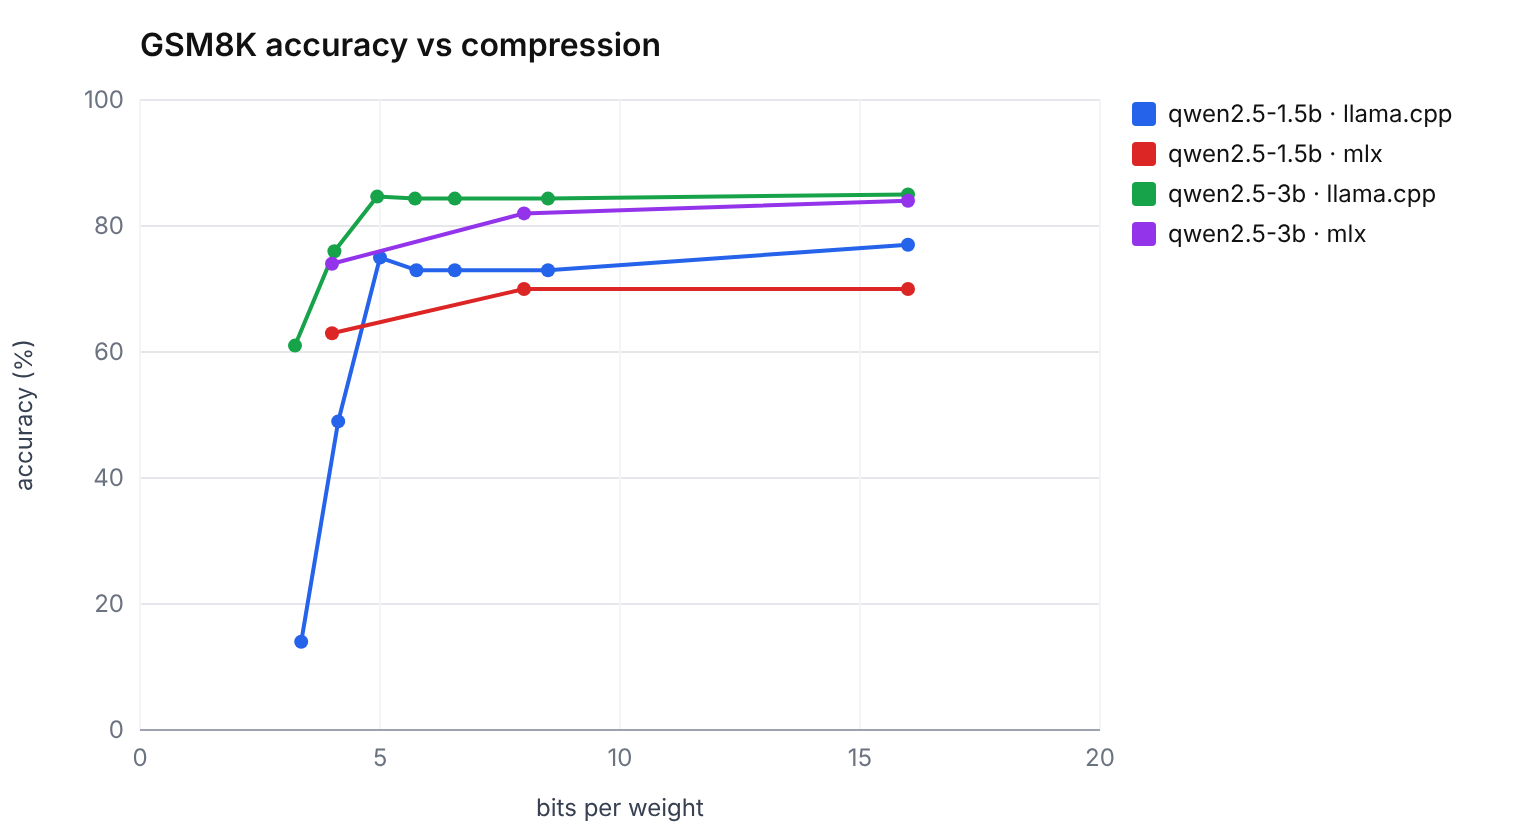
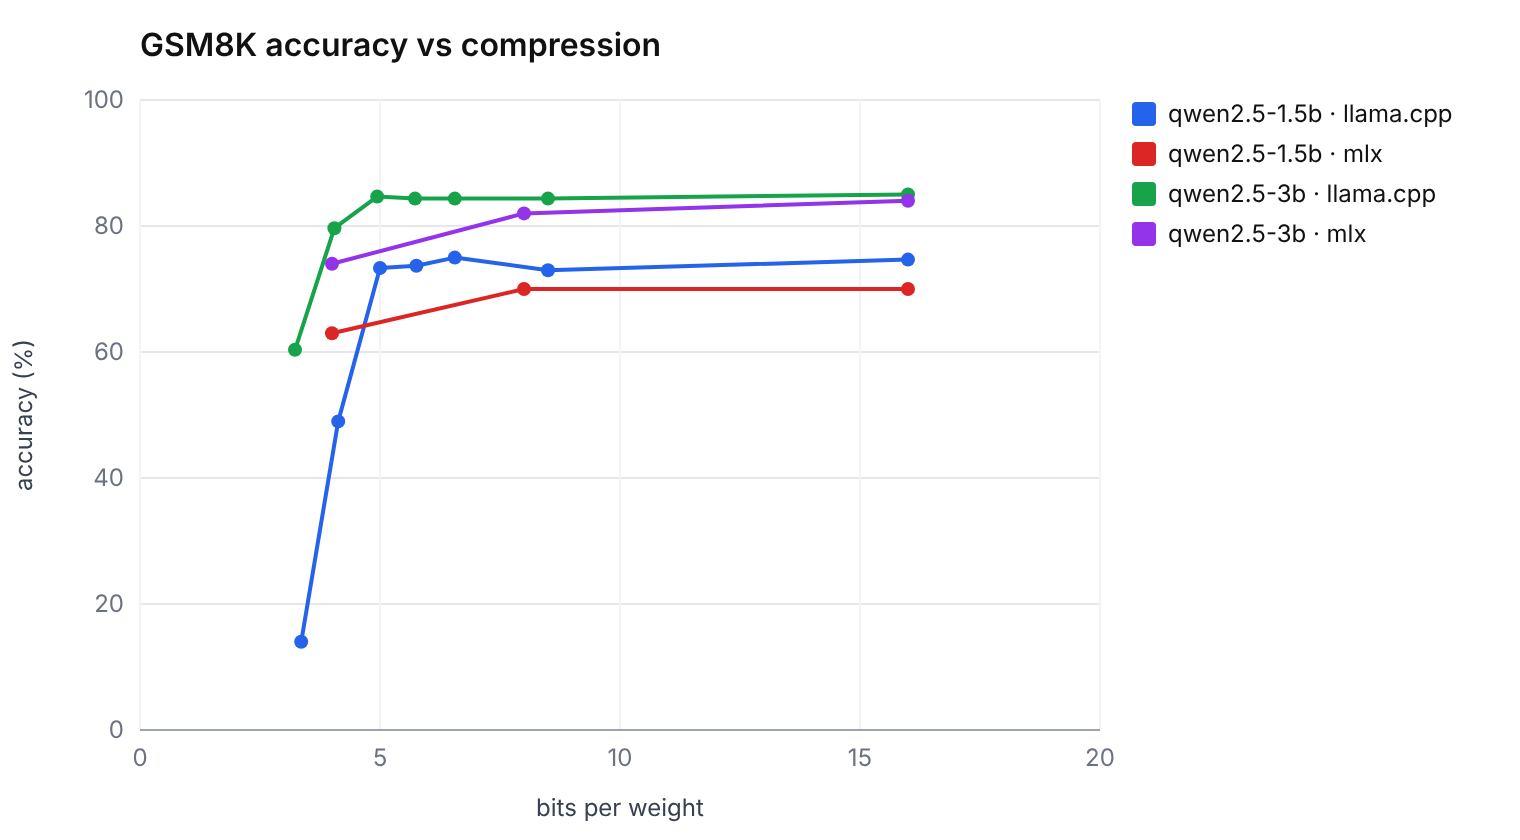
GSM8K on 300 problems for all llama.cpp 3B and most 1.5B variants

diff --git a/README.md b/README.md
@@ -21,8 +21,8 @@ The tool (`jpt`) has no runtime dependency beyond the Python standard library an
 | Same top token as F16 | 100% | 91.3% | −8.7 pts |
 | Perplexity (WikiText-2) | 8.07 | 8.32 | +3% |
 
-1. **Down to ~4 bits, no measurable accuracy loss.** On 300 GSM8K problems, the 3B model scores 85.0% in F16 and 84.3–84.7% in Q8_0, Q6_K, Q5_K_M and Q4_K_M. The degradation is real but small: Q4_K_M still picks the same next token as F16 91% of the time (mean KL divergence 0.03). Below 4 bits it accelerates, and hits the smaller model harder: at Q3_K_M the 1.5B falls to 49% on GSM8K while the 3B holds 76%.
-2. **A larger compressed model beats a smaller full-precision one.** The 3B at Q3_K_M (2.2 GB, 76%) matches the 1.5B at F16 (3.4 GB, 77%) with 35% less memory, and stays closer to its own F16 model than the 1.5B does at every quantization level.
+1. **Down to ~4 bits, no measurable accuracy loss.** On 300 GSM8K problems, the 3B model scores 85.0% in F16 and 84.3–84.7% in Q8_0, Q6_K, Q5_K_M and Q4_K_M; the 1.5B stays between 73.0% and 75.0% over the same range. The degradation is real but small: Q4_K_M still picks the same next token as F16 91% of the time (mean KL divergence 0.03). Below 4 bits it accelerates, and hits the smaller model harder: at Q3_K_M the 1.5B falls to 49% on GSM8K while the 3B holds 80%.
+2. **A larger compressed model beats a smaller full-precision one.** The 3B at Q3_K_M (2.2 GB, 79.7%) beats the 1.5B at F16 (3.4 GB, 74.7%) with 35% less memory, and stays closer to its own F16 model than the 1.5B does at every quantization level.
 3. **Speed improves far more than energy.** Decoding is memory-bandwidth bound: lighter weights are read faster, but the chip draws more power while doing so (7.8 W at F16, 13.4 W at Q4_K_M). Energy per token therefore drops by about a quarter, not by a factor of four.
 4. **The engine matters as much as the format.** At 4 bits on the 3B model, MLX uses 28% less energy per token than llama.cpp (0.189 vs 0.262 J) at a similar speed, but its simpler 4-bit scheme costs about 10 points on GSM8K (74% vs 84–85%).
 5. **Short benchmarks overstate sustained speed.** Under 15 minutes of continuous load the fanless chip throttles: Q4_K_M drops from 54 to 45 tok/s (−16%), F16 by −10%. The faster configuration draws more power and is throttled more.
@@ -50,7 +50,7 @@ Detailed in [`docs/METHODOLOGY.md`](docs/METHODOLOGY.md). In short:
 - **Throughput.** One unmeasured warm-up, then 3 trials per prompt separated by a 10 s pause, median reported with its coefficient of variation. Each configuration starts only once the chip is back to its nominal thermal state. Greedy decoding, fixed output length, prompt cache defeated so prefill is paid on every trial. llama.cpp timings come from the server; MLX timings from client-side stream timestamps.
 - **Energy.** Cumulative IOReport *Energy Model* counters (CPU, GPU, ANE, DRAM) read just before and after each request, so there is no sampling or integration error. Idle power is measured before every variant and subtracted for the dynamic figure. Measurements wait until background CPU activity has settled.
 - **Memory.** On Apple Silicon, model weights live in wired GPU memory that is not attributed to the server process. Peak memory is the increase in system wired memory plus the process footprint.
-- **Quality.** GSM8K (first 300 test problems for the 3B llama.cpp variants up to Q4_K_M, first 100 elsewhere; chat template, exact match on the final number, 95% Wilson interval), WikiText-2 perplexity and KL divergence from the F16 model (`llama-perplexity`, 40 chunks of 512 tokens, llama.cpp only).
+- **Quality.** GSM8K (first 300 test problems for the llama.cpp variants, first 100 for the others while the extension is completed; chat template, exact match on the final number, 95% Wilson interval), WikiText-2 perplexity and KL divergence from the F16 model (`llama-perplexity`, 40 chunks of 512 tokens, llama.cpp only).
 - **Compression.** Bits per weight are computed from file size and parameter count rather than from the quantization label.
 - **Selection.** A configuration is on the Pareto frontier when no other one is at least as good on accuracy, throughput and energy, and strictly better on one.
 

diff --git a/results/final/report.md b/results/final/report.md
@@ -2,11 +2,11 @@
 
 | Variant | Bits/weight | Decode (tok/s) | Stability | Prefill (tok/s) | TTFT (ms) | J/token | J/token (idle-subtracted) | Memory (GB) | GSM8K | Perplexity | Pareto |
 |---|---|---|---|---|---|---|---|---|---|---|---|
-| qwen2.5-1.5b/llama.cpp/F16 | 16.00 | 37.4 | variable | 2490 | 398 | 0.237 | 0.184 | 3.37 | 77.0% (68%–84%) | 9.17 | ★ |
-| qwen2.5-1.5b/llama.cpp/Q8_0 | 8.50 | 64.7 | variable | 2534 | 391 | 0.158 | 0.147 | 1.73 | 73.0% (64%–81%) | 9.17 |  |
-| qwen2.5-1.5b/llama.cpp/Q6_K | 6.56 | 72.9 | stable | 2454 | 403 | 0.170 | 0.169 | 1.91 | 73.0% (64%–81%) | 9.19 |  |
-| qwen2.5-1.5b/llama.cpp/Q5_K_M | 5.76 | 72.5 | stable | 2380 | 416 | 0.201 | 0.201 | 1.48 | 73.0% (64%–81%) | 9.23 |  |
-| qwen2.5-1.5b/llama.cpp/Q4_K_M | 5.00 | 83.1 | stable | 2477 | 401 | 0.137 | 0.135 | 1.70 | 75.0% (66%–82%) | 9.57 | ★ |
+| qwen2.5-1.5b/llama.cpp/F16 | 16.00 | 37.4 | variable | 2490 | 398 | 0.237 | 0.184 | 3.37 | 74.7% (69%–79%) | 9.17 |  |
+| qwen2.5-1.5b/llama.cpp/Q8_0 | 8.50 | 64.7 | variable | 2534 | 391 | 0.158 | 0.147 | 1.73 | 73.0% (68%–78%) | 9.17 |  |
+| qwen2.5-1.5b/llama.cpp/Q6_K | 6.56 | 72.9 | stable | 2454 | 403 | 0.170 | 0.169 | 1.91 | 75.0% (70%–80%) | 9.19 | ★ |
+| qwen2.5-1.5b/llama.cpp/Q5_K_M | 5.76 | 72.5 | stable | 2380 | 416 | 0.201 | 0.201 | 1.48 | 73.7% (68%–78%) | 9.23 |  |
+| qwen2.5-1.5b/llama.cpp/Q4_K_M | 5.00 | 83.1 | stable | 2477 | 401 | 0.137 | 0.135 | 1.70 | 73.3% (68%–78%) | 9.57 | ★ |
 | qwen2.5-1.5b/llama.cpp/Q3_K_M | 4.13 | 80.7 | unstable | 2442 | 405 | 0.165 | 0.165 | 1.57 | 49.0% (39%–59%) | 10.28 |  |
 | qwen2.5-1.5b/llama.cpp/Q2_K | 3.36 | 120.2 | unstable | 2532 | 390 | 0.144 | 0.136 | 1.11 | 14.0% (9%–22%) | 15.21 |  |
 | qwen2.5-1.5b/mlx/bf16 | 16.00 | 40.3 | stable | 2343 | 420 | 0.194 | 0.164 | 7.55 | 70.0% (60%–78%) | — |  |
@@ -17,8 +17,8 @@
 | qwen2.5-3b/llama.cpp/Q6_K | 6.56 | 44.5 | stable | 1237 | 791 | 0.343 | 0.338 | 2.99 | 84.3% (80%–88%) | 8.10 |  |
 | qwen2.5-3b/llama.cpp/Q5_K_M | 5.73 | 49.2 | stable | 1191 | 822 | 0.367 | 0.362 | 2.70 | 84.3% (80%–88%) | 8.16 |  |
 | qwen2.5-3b/llama.cpp/Q4_K_M | 4.94 | 53.3 | stable | 1241 | 788 | 0.262 | 0.258 | 2.47 | 84.7% (80%–88%) | 8.32 | ★ |
-| qwen2.5-3b/llama.cpp/Q3_K_M | 4.05 | 56.1 | stable | 1213 | 806 | 0.293 | 0.288 | 2.15 | 76.0% (67%–83%) | 8.80 | ★ |
-| qwen2.5-3b/llama.cpp/Q2_K | 3.23 | 64.2 | stable | 1275 | 766 | 0.247 | 0.243 | 1.83 | 61.0% (51%–70%) | 12.49 |  |
+| qwen2.5-3b/llama.cpp/Q3_K_M | 4.05 | 56.1 | stable | 1213 | 806 | 0.293 | 0.288 | 2.15 | 79.7% (75%–84%) | 8.80 | ★ |
+| qwen2.5-3b/llama.cpp/Q2_K | 3.23 | 64.2 | stable | 1275 | 766 | 0.247 | 0.243 | 1.83 | 60.3% (55%–66%) | 12.49 |  |
 | qwen2.5-3b/mlx/bf16 | 16.00 | 20.7 | stable | 1234 | 801 | 0.355 | 0.338 | 13.26 | 84.0% (76%–90%) | — |  |
 | qwen2.5-3b/mlx/8bit | 8.00 | 37.7 | variable | 1309 | 754 | 0.245 | 0.217 | 7.98 | 82.0% (73%–88%) | — | ★ |
 | qwen2.5-3b/mlx/4bit | 4.00 | 56.4 | stable | 1426 | 692 | 0.189 | 0.175 | 5.35 | 74.0% (65%–82%) | — |  |

diff --git a/docs/METHODOLOGY.md b/docs/METHODOLOGY.md
@@ -58,7 +58,7 @@ Wired memory is read from `vm_stat`, the footprint from `proc_pid_rusage` (`ri_p
 
 ## Quality
 
-**GSM8K.** The first 300 problems (3B llama.cpp, F16 to Q4_K_M) or 100 problems (other configurations) of the test split, sent through the chat endpoint of each engine with the model's chat template. The model is asked to give its final answer as `#### <number>`. The answer is extracted from that marker, with fallbacks to "the answer is N", `\boxed{N}` or the last number, and compared numerically to the reference. Accuracy is reported with a **95% Wilson score interval**: about ±4 points at n = 300 and ±8 to 10 points at n = 100. Differences smaller than the interval are not interpreted.
+**GSM8K.** The first 300 problems (llama.cpp configurations) or 100 problems (configurations not yet extended) of the test split, sent through the chat endpoint of each engine with the model's chat template. The model is asked to give its final answer as `#### <number>`. The answer is extracted from that marker, with fallbacks to "the answer is N", `\boxed{N}` or the last number, and compared numerically to the reference. Accuracy is reported with a **95% Wilson score interval**: about ±4 points at n = 300 and ±8 to 10 points at n = 100. Differences smaller than the interval are not interpreted.
 
 **Perplexity.** WikiText-2 (raw) test set, measured with `llama-perplexity` on 40 chunks of 512 tokens. Perplexity measures how well the model predicts held-out text and is more sensitive than GSM8K to small degradations. It is computed for llama.cpp configurations only.
 

diff --git a/docs/WRITEUP.md b/docs/WRITEUP.md
@@ -8,11 +8,11 @@ For each configuration I measured generation speed, prompt processing speed, pea
 
 On 300 GSM8K problems, Qwen2.5-3B scores 85.0% in F16 and 84.7% in Q4_K_M. Q8, Q6 and Q5 land at 84.3%. Statistically, these are the same model.
 
-That does not mean nothing changes. Q4_K_M picks the same next token as F16 91% of the time. The model drifts, but not in ways that change final answers. Below 4 bits the drift accelerates: 85% agreement at Q3, 70% at Q2, and GSM8K accuracy follows (76%, then 61%).
+That does not mean nothing changes. Q4_K_M picks the same next token as F16 91% of the time. The model drifts, but not in ways that change final answers. Below 4 bits the drift accelerates: 85% agreement at Q3, 70% at Q2, and GSM8K accuracy follows (80%, then 60%).
 
 ## 2. Prefer a bigger model, compressed harder
 
-The 1.5B model collapses much faster than the 3B: at Q3_K_M it falls to 49% on GSM8K, against 76% for the 3B. And the 3B at Q3 (2.2 GB) matches the 1.5B at full precision (3.4 GB). With a fixed memory budget, take the largest model that fits after quantization.
+The 1.5B model collapses much faster than the 3B: at Q3_K_M it falls to 49% on GSM8K, against 80% for the 3B. And the 3B at Q3 (2.2 GB, 79.7%) beats the 1.5B at full precision (3.4 GB, 74.7%). With a fixed memory budget, take the largest model that fits after quantization.
 
 ## 3. 2.5× faster does not mean 2.5× cheaper
 
